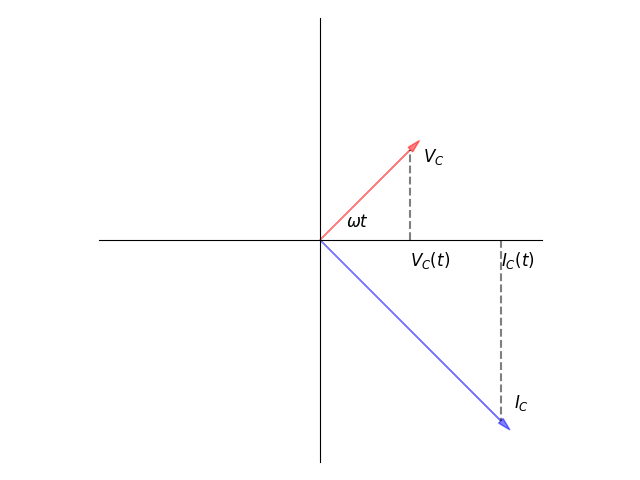
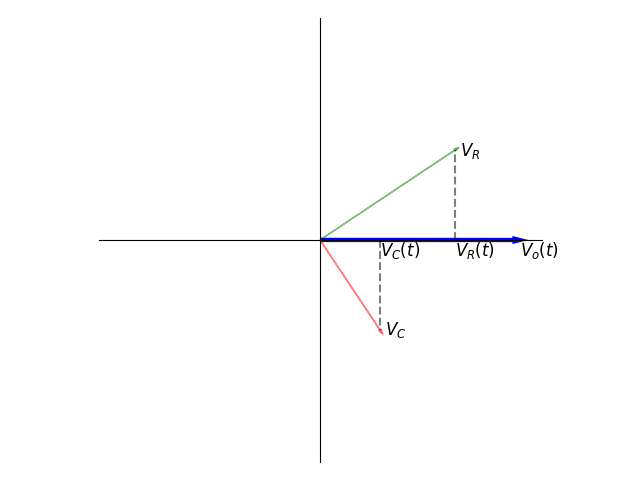
last update

diff --git a/phase-x/scripts/ac_circuit.py b/phase-x/scripts/ac_circuit.py
@@ -9,7 +9,7 @@ alpha = 0.5
 
 # plot regular sin plot
 
-y = np.sin(x)
+y = np.cos(x)
 
 fig = plt.figure()
 ax = fig.add_subplot(111)
@@ -45,10 +45,10 @@ plt.savefig("ac_none.png")
 fig = plt.figure()
 ax = fig.add_subplot(111)
 
-v_r = np.sin(x)
-i_r = 2.*np.sin(x)
-ax.plot(x,v_r, alpha = alpha, color = 'r', label=r'V(t)')
-ax.plot(x,i_r, alpha = alpha, color = 'b', label=r'I(t)')
+v_r = np.cos(x)
+i_r = 2.*np.cos(x)
+ax.plot(x,v_r, alpha = alpha, color = 'r', label=r'$V_R(t)$')
+ax.plot(x,i_r, alpha = alpha, color = 'b', label=r'$I_R(t)$')
 plt.axhline(y=1., color='k', linestyle='--')
 plt.axhline(y=2., color='k', linestyle='--')
 
@@ -98,8 +98,8 @@ plt.yticks([])
 #plt.ylabel('out-phase', fontsize = 10, rotation = 0)
 #ax.yaxis.set_label_coords(0.5, 1.03)
 
-ax.text(cos_t + 0.1 , cos_t - 0.1, r'$V_o$', fontsize=12)
-ax.text(2*cos_t + 0.1 , 2*cos_t - 0.1, r'$I_o$', fontsize=12)
+ax.text(cos_t + 0.1 , cos_t - 0.1, r'$V_R$', fontsize=12)
+ax.text(2*cos_t + 0.1 , 2*cos_t - 0.1, r'$I_R$', fontsize=12)
 ax.text(cos_t, -0.2, r'$V(t)$', fontsize=12)
 ax.text(2*cos_t, -0.2, r'$I(t)$', fontsize=12)
 ax.text(0.2, 0.1, r'$\omega t$', fontsize=12)
@@ -119,11 +119,14 @@ plt.savefig('phas_ro.png')
 fig = plt.figure()
 ax = fig.add_subplot(111)
 
-v_r = np.sin(x)
-i_r = 2.*np.sin(x - np.pi/2)
-ax.plot(x,v_r, alpha = alpha, color = 'r', label=r'V(t)')
-ax.plot(x,i_r, alpha = alpha, color = 'b', label=r'I(t)')
+v_c = np.cos(x)
+v_r = 1.5*np.cos(x  + np.pi/2)
+i_r = 2.*np.cos(x  + np.pi/2)
+ax.plot(x,v_c, alpha = alpha, color = 'r', label=r'$V_C(t)$')
+ax.plot(x,i_r, alpha = alpha, color = 'b', label=r'$I_C(t)$')
+ax.plot(x,v_r, alpha = alpha, color = 'g', ls= '--', label=r'$I_R(t)$')
 plt.axhline(y=1., color='k', linestyle='--')
+plt.axhline(y=1.5, color='k', linestyle='--')
 plt.axhline(y=2., color='k', linestyle='--')
 
 ax.spines['right'].set_color('none')
@@ -131,9 +134,9 @@ ax.spines['bottom'].set_position('center')
 ax.spines['top'].set_color('none')
 
 xlabels = ['T/4','T/2', '3T/4','T']
-ylabels = [r'$V_R$', r'$I_R$']
+ylabels = [r'$V_C$', r'$V_R$', r'$I_C$']
 plt.xticks(np.arange(np.pi/2,3.* np.pi, np.pi/2), xlabels, fontsize = 15)
-plt.yticks([1,2], ylabels, fontsize = 15)
+plt.yticks([1, 1.5 , 2], ylabels, fontsize = 15)
 
 plt.xlabel('t', fontsize = 15)
 ax.xaxis.set_label_coords(1.05, 0.5)
@@ -146,18 +149,33 @@ plt.tight_layout()
 
 plt.savefig('ac_co.png')
 
-# plot C only phase
+# plot RC only phase
 
 fig = plt.figure()
 ax = fig.add_subplot(111, aspect='equal')
 
-cos_t = np.cos(np.pi/4)
-ax.arrow(0, 0, cos_t, cos_t, fc="r", ec="r",
+v_r = np.sqrt(2*(1.5*np.sqrt(2))**2) # sqrt2
+v_c = np.sqrt(2*(np.sqrt(2))**2) # sqrt2
+v_o = np.sqrt(v_r**2+ v_c**2)
+phi = np.arccos(v_r/v_o)
+
+v_rx = v_r*np.cos(phi)
+v_ry = v_r*np.sin(phi)
+
+v_cx = v_c*np.cos(phi -np.pi/2)
+v_cy = v_c*np.sin(phi -np.pi/2)
+
+v_ox = v_o
+v_oy = 0
+ax.arrow(0, 0, v_cx , v_cy, fc="r", ec="r",
                 head_width=0.05, head_length=0.1 , alpha=alpha)
-ax.arrow(0, 0, 2*cos_t, -2*cos_t, fc="b", ec="b",
+ax.arrow(0, 0, v_rx, v_ry, fc="g", ec="g",
                 head_width=0.05, head_length=0.1 , alpha=alpha)
-plt.plot([cos_t,cos_t],[0, cos_t], ls='--', color='k', alpha=0.5)  
-plt.plot([2*cos_t,2*cos_t],[0, -2*cos_t], ls='--', color='k', alpha = 0.5)
+ax.arrow(0, 0, v_ox , v_oy, fc="b", ec="b",
+               head_width=0.05, head_length=0.1 , alpha=1., lw=3)
+plt.plot([v_rx,v_rx],[0, v_ry], ls='--', color='k', alpha=0.5)  
+plt.plot([v_cx,v_cx],[0, v_cy], ls='--', color='k', alpha = 0.5)
+
 
 ax.spines['left'].set_position('center')
 ax.spines['right'].set_color('none')
@@ -172,14 +190,16 @@ plt.yticks([])
 #plt.ylabel('out-phase', fontsize = 10, rotation = 0)
 #ax.yaxis.set_label_coords(0.5, 1.03)
 
-ax.text(cos_t + 0.1 , cos_t - 0.1, r'$V_o$', fontsize=12)
-ax.text(2*cos_t + 0.1 , -2*cos_t + 0.1, r'$I_o$', fontsize=12)
-ax.text(cos_t, -0.2, r'$V(t)$', fontsize=12)
-ax.text(2*cos_t, -0.2, r'$I(t)$', fontsize=12)
-ax.text(0.2, 0.1, r'$\omega t$', fontsize=12)
+ax.text(v_cx + 0.1 ,  v_cy - 0.1, r'$V_C$', fontsize=12)
+ax.text(v_rx + 0.1 ,  v_ry - 0.1, r'$V_R$', fontsize=12)
+#ax.text(v_ox + 0.1 , v_oy + 0.1, r'$V_o$', fontsize=12)
+ax.text(v_cx, -0.3, r'$V_C(t)$', fontsize=12)
+ax.text(v_rx, -0.3, r'$V_R(t)$', fontsize=12)
+ax.text(v_ox + 0.1, -0.3, r'$V_o(t)$', fontsize=12)
+#ax.text(0.2, 0.1, r'$\omega t$', fontsize=12)
 
 
-hl = np.sqrt(3)
+hl = v_ox + 0.5
 plt.xlim(-hl,hl)
 plt.ylim(-hl,hl)
 

diff --git a/muon-lifetime/scripts/muonlifetime.py b/muon-lifetime/scripts/muonlifetime.py
@@ -12,13 +12,16 @@ plt.rcParams['text.latex.preamble'] = [r'\boldmath']
 #    return C*np.exp(-t/tau) + A1*np.exp(-t/tau1) + A2*np.exp(-t/tau2)
 
 def muonFit(t,A1,tau1,A2,tau2):
-    return 11. + A1*np.exp(-t/tau1) + A2*np.exp(-t/tau2)
+    return 11. + A1*np.exp(-t/tau1) + A2*np.exp(-t/tau2) 
 
 def expon(t,A,tau):
     return A*np.exp(-t/tau)
 
+def gaussian(t,a,b,c):
+    return a*np.exp(-(t-b)**2/(2*c**2))
+
 #p_0 = [1000,2,1000,2,10000,2]
-p_0 = [1000,2,10000,2]
+p_0 = [1000,2,10000,2 ]
 
 binnum = []
 tbins  = []
@@ -54,6 +57,7 @@ perr = np.sqrt(np.diag(pcov))
 #const = [popt[0]]*len(t)
 const = [11.]*len(t)
 
+plt.subplot(211)
 plt.gcf().set_size_inches(15,5)
 plt.ylim([1,1.0e5])
 #plt.xlim([0,2050])
@@ -75,8 +79,18 @@ plt.text(2.,1.e+4,r'\textbf{lifetimes: %f, %f} $\mu s$' % (popt[1],popt[3]), ha=
 #print("C = %f, A1 = %f, tau1 = %f, A2 = %f, tau2 = %f" % (popt[0],popt[1],popt[2],popt[3],popt[4]))
 #print("\u03C3(C) = %f, \u03C3(A1) = %f, \u03C3(tau1) = %f, \u03C3(A2) = %f, \u03C3(tau2) = %f" % (perr[0],perr[1],perr[2],perr[3],perr[4]))
 
+plt.subplot(212)
+
+
+binnum = np.array(binnum)
+tbins  = np.array(tbins)
+tbins  = tbins[binnum > 0.2]
+binnum = binnum[binnum > 0.2]
+plt.plot(binnum,(tbins-muonFit(binnum,*popt)))
+#print(popt[4],popt[5])
+
 #print("lifetimes = %f, %f, %f" % (popt[1],popt[3],popt[5]))
 print("lifetimes = %f, %f" % (popt[1],popt[3]) )
 
-plt.show()
-
+plt.show(block=True)
+plt.savefig("muonlifetime.png")
